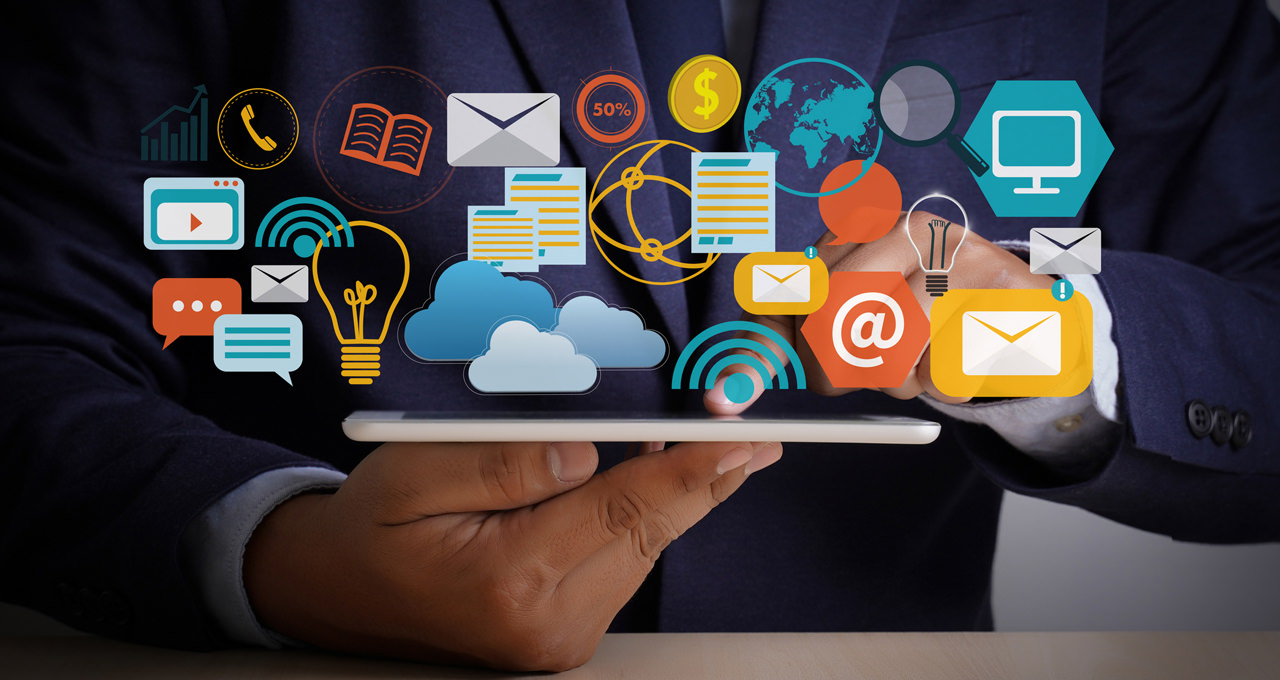
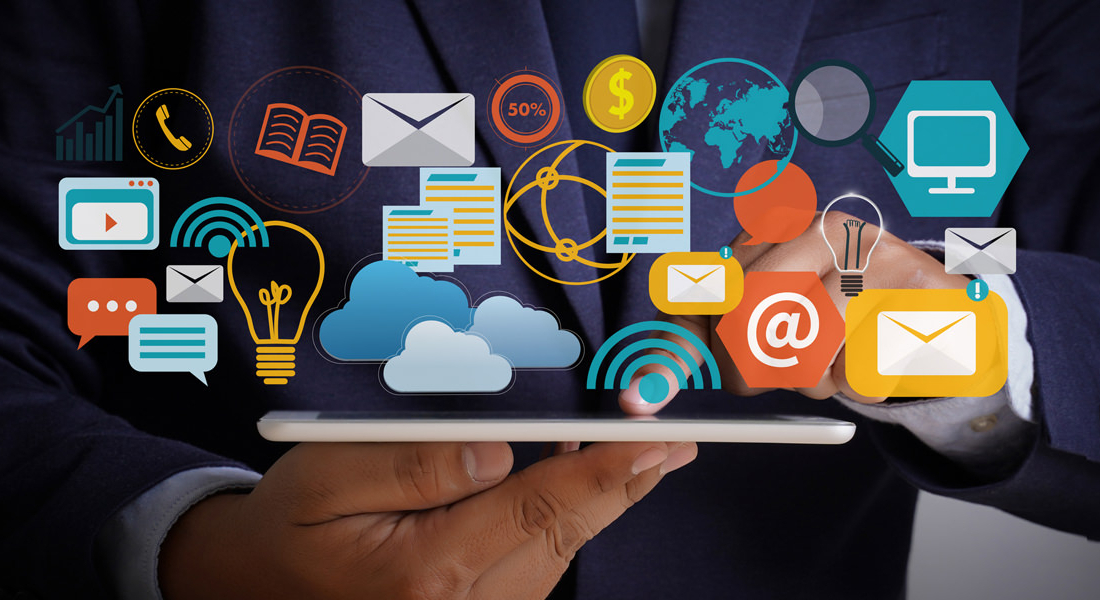
Commit Inicial

diff --git a/index.html b/index.html
@@ -12,7 +12,6 @@
 </head>
 <body>
 
-    <!-- NAVEGACIÓN -->
     <nav class="navbar navbar-expand-lg navbar-light sticky-top">
         <div class="container-fluid area-top">         
             <img class="img-fluid logoMenu" src="img/logo2.png" alt="Ideas B Comunicacion">
@@ -30,7 +29,6 @@
         </div>
     </nav>
 
-    <!-- INICIO -->
     <section class="inicio" id="inicio">
         <div id="carouselExampleIndicators" class="carousel slide carousel" data-ride="carousel">
             <ol class="carousel-indicators">
@@ -40,7 +38,7 @@
             </ol>
             <div class="carousel-inner">
                 <div class="carousel-item active">
-                    <img class="d-block w-100" src="img/1.jpg" alt="First slide">
+                    <img class="d-block w-100" src="img/1.2.jpg" alt="First slide">
                 </div>
                 <div class="carousel-item">
                     <img class="d-block w-100" src="img/2.jpg" alt="Second slide">
@@ -60,7 +58,6 @@
         </div>
     </section>
 
-    <!-- QUIENES SOMOS -->
     <section class="content who" id="who">
         <div class="container">
             <br>
@@ -75,13 +72,12 @@
                 </div>
                 <div class="col-12 col-lg-6 quienes-somos">
                     <div class="embed-responsive embed-responsive-16by9">
-                        <iframe class="embed-responsive-item" src="https://www.youtube.com/embed/nxzqb8Ivg1g"></iframe>
+                        <iframe class="embed-responsive-item" src="https://www.youtube.com/embed/ExcM0p3-w1Y"></iframe>
                     </div>
                 </div>
             </div>
     </section>
 
-    <!-- SERVICIOS -->
     <section class="content services" id="services">
         <div class="container-fluid">
             <div class="row">      
@@ -132,86 +128,11 @@
         </div>
     </section>           
             
-    <!-- CONTACTO -->
+
     <section class="content contact" id="contact">
-        <!-- <div class="container-fluid">
-            <div class="row">
-
-                <div class="col-md-6 col-lg-4 caja">
-                    <div class="card text-white bg-dark borde-caja">               
-                        <div class="card-header">
-                            Horarios de atención
-                        </div>
-                        <div class="card-body contenido-caja-contacto">                                
-                            <p class="card-text">
-
-                            </p>
-                        </div>
-                    </div>              
-                </div>
-
-                <div class="col-md-6 col-lg-4 caja">
-                    <div class="card text-white bg-dark borde-caja">
-                        <div class="card-header">
-                            Contactános
-                        </div>
-                        <div class="card-body contenido-caja-contacto">
-                            <p class="card-text">
-
-                            </p>
-                        </div>
-                    </div>
-                </div>
-
-                <div class="col-md-12 col-lg-4 caja">
-                    <div class="card text-white bg-dark borde-caja">
-                        <div class="card-header"> 
-                            Dirección
-                        </div>
-                        <div class="card-body contenido-caja-contacto">
-                            <p class="card-text">
-                                
-                            </p>
-                        </div>
-                    </div>
-                </div>
-
-            </div>
-        </div> -->
-
-        <!-- <form method="POST" action="formulario.php">
-            <div class="caja caja-formulario">
-                <h2>Envianos tu consulta</h2>
-                <div class="row">
-                    <div class="col-sm-12 col-md-6">
-                        <div class="form-group">
-                            <input type="text" name="nombre" class="form-control" placeholder="Nombre y Apellido" required>
-                        </div>
-                    </div>
-
-                    <div class="col-sm-12 col-md-6">
-                        <div class="form-group">
-                            <input type="email" name="email" class="form-control" placeholder="Ingrese su email" required>
-                        </div>
-                    </div>
-                </div>
-
-                <div class="row">
-                    <div class="col">
-                        <div class="form-group">
-                            <textarea class="form-control" name="mensaje" rows="5" placeholder="Dejanos tu consulta"required></textarea>
-                        </div>
-                    </div>                 
-                </div>  
-                
-                <input type="submit" name="enviar" class="btn btn-secondary" value="Enviar">
-
-            </div>  
-        </form>    -->
-
+        
     </section>
 
-    <!-- FOOTER -->
     <footer>
         <div class="footer-principal">
             <div class="container-fluid">

diff --git a/estilos.css b/estilos.css
@@ -228,7 +228,7 @@ footer {
 }
 
 .nav-link:hover {
-  color: rgba(230, 197, 11, 0.863)!important;
+  color: #ffc107 !important;
 }
 
 h1 {
@@ -241,9 +241,15 @@ h1 {
 
 .carousel-item {
   height: 100%;
-  max-height: 450px;
+  max-height: 430px;
   background: no-repeat center center scroll;
   background-size: cover;
+}
+
+.carousel-indicators li {
+  width: 10px;
+  height: 10px;
+  border-radius: 100%;
 }
 
 .quienes-somos {
